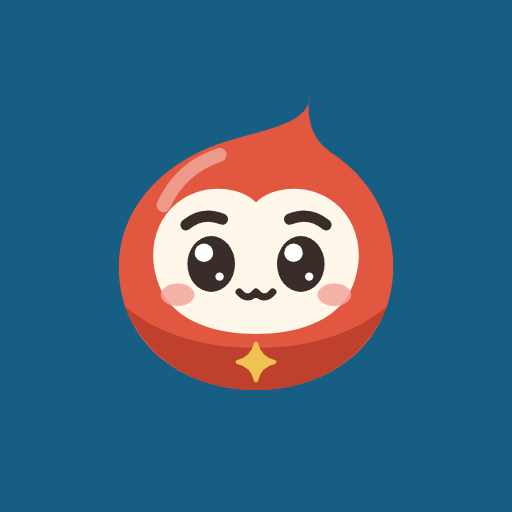
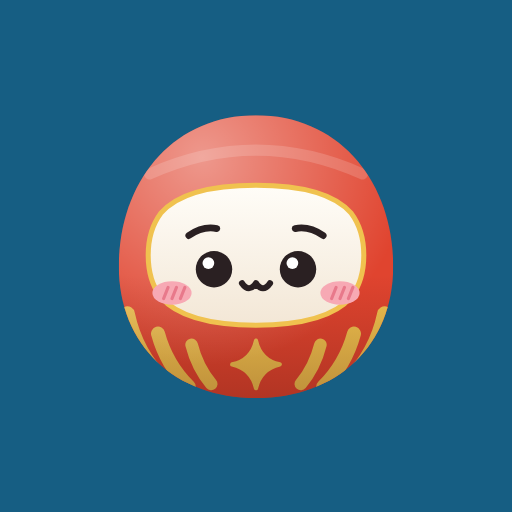
루마 리디자인: 다루마 무늬와 눈 뜨기 (#5)
- 루마의 몸통을 둥근 달마 모양으로 바꾸고 금색 줄무늬, 금테 흰 얼굴, 배의 금색 반짝임 추가
- 얼굴을 검은 점 눈, 작은 눈썹, ω 모양 입, 빗금 볼 홍조의 낙서풍 표정으로 변경
- 진행 표시를 색 채우기에서 눈을 뜨는 방식으로 변경 (학습 전: 자는 모습, 시작: 한쪽 눈, 완료: 두 눈)
- 온보딩·홈·학습 완료 문구와 README 수정, 앱 아이콘 재생성

Changed region(s): [[0.2188, 0.1875, 0.7812, 0.7812], [0.75, 0.4062, 0.7812, 0.4688]]

diff --git a/src/components/Ruma.tsx b/src/components/Ruma.tsx
@@ -1,48 +1,39 @@
 import { useId } from 'react'
 
 /**
- * 루마 (Ruma), the mascot: a drop-shaped daruma with a curled tip and a gold spark on its belly.
- * It starts the day uncoloured and fills with red, like liquid rising, as today's study gets done.
- * `fill` is today's progress from 0 to 1. Before the day's study starts it is asleep (`mood="sleep"`).
+ * 루마 (Ruma), the mascot: a round red daruma with gold stripes, a white face and a small, soft doodle face.
+ * Like a daruma getting its eyes, it is asleep before the day's study starts (`mood="sleep"`),
+ * opens one eye once it starts and the other when the day's cards are done.
+ * `progress` runs from 0 to 1.
  */
-const INK = '#3a2c28'
+const INK = '#2a2022'
 const GOLD = '#f0c24f'
-const BODY =
-  'M79 4C80 14 67 16 50 21 27 28 11 45 11 66c0 26 21 44 49 44s49-18 49-44c0-17-8-31-21-40-8-5-10-12-9-22Z'
-const FACE = 'M60 43c6-6 19-7 28 0 10 8 11 22 5 33-6 10-19 14-33 14s-27-4-33-14c-6-11-5-25 5-33 9-7 22-6 28 0Z'
-const TOP = 4
-const BOTTOM = 110
+const BODY = 'M60 9c30 0 49 24 49 54 0 28-20 47-49 47S11 91 11 63C11 33 30 9 60 9Z'
+const FACE = 'M60 34c16 0 28 3 34 10 6 8 6 22 0 30-6 7-18 10-34 10s-28-3-34-10c-6-8-6-22 0-30 6-7 18-10 34-10Z'
+const EYE_Y = 64
+const EYE_R = 6.5
 
 export function Ruma({
-  fill,
+  progress,
   mood = 'idle',
   size = 96,
 }: {
-  fill: number
+  progress: number
   mood?: 'idle' | 'cheer' | 'sleep'
   size?: number
 }) {
   const id = useId()
-  const f = Math.min(1, Math.max(0, fill))
-  // a full body pushes the surface above the tip, an empty one below the base, so no wave line shows
-  const level = f >= 1 ? TOP - 8 : f <= 0 ? BOTTOM + 8 : BOTTOM - f * (BOTTOM - TOP)
-
-  const eye = (cx: number) => {
-    if (mood === 'sleep')
-      return <path d={`M${cx - 7} 65q7 6 14 0`} fill="none" stroke={INK} strokeWidth="3.2" strokeLinecap="round" />
-    if (mood === 'cheer')
-      return <path d={`M${cx - 8} 68q8-12 16 0`} fill="none" stroke={INK} strokeWidth="4.2" strokeLinecap="round" />
-    return (
-      <>
-        <ellipse cx={cx} cy="65" rx="8.5" ry="10" fill={INK} />
-        <circle cx={cx - 2.6} cy="61" r="3.3" fill="#fff" />
-        <circle cx={cx + 3} cy="69.5" r="1.5" fill="#fff" opacity=".9" />
-      </>
+  const p = Math.min(1, Math.max(0, progress))
+  // The eye on the viewer's right opens first, as a daruma's first eye is painted; the other opens when the day is done.
+  const eye = (cx: number, open: boolean) =>
+    mood === 'sleep' || !open ? (
+      <path d={`M${cx - 5.5} ${EYE_Y}q5.5 4.5 11 0`} fill="none" stroke={INK} strokeWidth="2.6" strokeLinecap="round" />
+    ) : (
+      <g className="ruma-blink">
+        <circle cx={cx} cy={EYE_Y} r={EYE_R} fill={INK} />
+        <circle cx={cx - 2} cy={EYE_Y - 2.2} r="2.1" fill="#fff" />
+      </g>
     )
-  }
-
-  const brows =
-    mood === 'sleep' ? 'M35 55q7 2 13 0M72 55q6 2 13 0' : mood === 'cheer' ? 'M34 50q7-6 14-3M72 47q7-3 14 3' : 'M35 51q6-5 13-2M72 49q7-3 13 2'
 
   return (
     <svg className={`ruma ${mood}`} width={size} height={size} viewBox="0 0 120 120" aria-hidden="true">
@@ -50,53 +41,72 @@ export function Ruma({
         <clipPath id={`${id}b`}>
           <path d={BODY} />
         </clipPath>
+        <radialGradient id={`${id}h`} cx="34%" cy="20%" r="62%">
+          <stop offset="0" stopColor="#fff" stopOpacity=".45" />
+          <stop offset="1" stopColor="#fff" stopOpacity="0" />
+        </radialGradient>
+        <linearGradient id={`${id}d`} x1="0" y1="0" x2="0" y2="1">
+          <stop offset=".55" stopColor="#3a0d05" stopOpacity="0" />
+          <stop offset="1" stopColor="#3a0d05" stopOpacity=".34" />
+        </linearGradient>
+        <linearGradient id={`${id}v`} x1="0" y1="0" x2="0" y2="1">
+          <stop offset="0" stopColor="#fffdf8" />
+          <stop offset="1" stopColor="#f3e7d6" />
+        </linearGradient>
+        <filter id={`${id}f`} x="-30%" y="-100%" width="160%" height="300%">
+          <feGaussianBlur stdDeviation="2.4" />
+        </filter>
       </defs>
-      <ellipse cx="60" cy="113" rx="32" ry="4.5" fill="#000" opacity=".1" />
+      <ellipse cx="60" cy="113" rx="30" ry="4" fill="#000" opacity=".22" filter={`url(#${id}f)`} />
       <g className="ruma-body">
-        <path d={BODY} className="ruma-empty" />
         <g clipPath={`url(#${id}b)`}>
-          <g className="ruma-liquid" style={{ transform: `translateY(${level}px)` }}>
-            {/* two wave layers drifting sideways; everything below them is solid colour */}
-            <path className="wave back" d="M-60 0q15-7 30 0t30 0 30 0 30 0 30 0 30 0 30 0 30 0V130H-60Z" fill="#f08e76" />
-            <path className="wave" d="M-60 3q15 7 30 0t30 0 30 0 30 0 30 0 30 0 30 0 30 0V130H-60Z" fill="#e2573f" />
-            <g style={{ transform: `translateY(${-level}px)` }}>
-              <path d="M6 74c7 24 27 38 54 38s47-14 54-38c-12 14-31 21-54 21S18 88 6 74Z" fill="#bf412d" style={{ clipPath: `inset(${Math.max(0, level + 6 - 74)}px 0 0 0)` }} />
-            </g>
+          <rect width="120" height="120" fill="#e0442f" />
+          {/* gold stripes fanning up each side of the belly */}
+          <g fill="none" stroke={GOLD} strokeLinecap="round">
+            <path d="M14 80q3 14 13 24M106 80q-3 14-13 24" strokeWidth="5.5" />
+            <path d="M25 87q3 11 11 19M95 87q-3 11-11 19" strokeWidth="5" />
+            <path d="M37 91q2 8 7 14M83 91q-2 8-7 14" strokeWidth="4.5" />
           </g>
+          {/* belly mark */}
+          <path d="M60 89.500q1.6 7 8.5 8.5-6.9 1.6-8.5 8.5-1.6-6.9-8.5-8.5 6.9-1.5 8.5-8.500Z" fill={GOLD} stroke={GOLD} strokeWidth="1.5" strokeLinejoin="round" />
+          {/* band around the crown */}
+          <path d="M22 30q38-17 76 0" fill="none" stroke="#fff" strokeOpacity=".16" strokeWidth="4" strokeLinecap="round" />
+          <rect width="120" height="120" fill={`url(#${id}d)`} />
+          <rect width="120" height="120" fill={`url(#${id}h)`} />
         </g>
         <path d={BODY} className="ruma-outline" />
-        <path d="M27 44c4-9 11-15 20-18" fill="none" stroke="#fff" strokeWidth="5" strokeLinecap="round" opacity=".4" />
-        <path d={FACE} fill="#fff7ea" />
-        <path d={brows} fill="none" stroke={INK} strokeWidth="4" strokeLinecap="round" />
-        {eye(44)}
-        {eye(76)}
-        <ellipse cx="32" cy="76" rx="6" ry="4" fill="#f4a59a" opacity=".85" />
-        <ellipse cx="88" cy="76" rx="6" ry="4" fill="#f4a59a" opacity=".85" />
-        {mood === 'cheer' ? (
-          <>
-            <path d="M53 73q7 12 14 0Z" fill={INK} stroke={INK} strokeWidth="2" strokeLinejoin="round" />
-            <path d="M56.5 78.5q3.5-3 7 0-3.5 3.5-7 0Z" fill="#f0907f" />
-          </>
-        ) : mood === 'sleep' ? (
-          <ellipse cx="60" cy="76" rx="2.6" ry="3" fill={INK} />
-        ) : (
-          <path d="M54 75q3 3.5 6 0q3 3.5 6 0" fill="none" stroke={INK} strokeWidth="2.6" strokeLinecap="round" strokeLinejoin="round" />
-        )}
-        {/* belly spark */}
-        <path d="M60 93.5q1.2 5.3 6.5 6.5-5.3 1.2-6.5 6.5-1.2-5.3-6.5-6.5 5.3-1.2 6.5-6.5Z" fill={GOLD} stroke={GOLD} strokeWidth="1.5" strokeLinejoin="round" />
+        <path d={FACE} fill={`url(#${id}v)`} stroke={GOLD} strokeWidth="1.8" />
+        {/* blush, hatched like a pencil doodle */}
+        <ellipse cx="30" cy="72.5" rx="7" ry="4.2" fill="#f7a9b4" />
+        <ellipse cx="90" cy="72.5" rx="7" ry="4.2" fill="#f7a9b4" />
+        <path d="M27 74.500l1.6-4M30 74.500l1.6-4M33 74.500l1.6-4M87 74.500l1.6-4M90 74.500l1.6-4M93 74.500l1.6-4" fill="none" stroke="#e8798b" strokeWidth="1.1" strokeLinecap="round" />
+        {/* small brows and mouth */}
+        <g className="ruma-marks" fill="none" stroke={INK} strokeLinecap="round" strokeLinejoin="round">
+          <path d="M36 52q5-3.5 10-2.5" strokeWidth="2.4" />
+          <path d="M84 52q-5-3.5-10-2.5" strokeWidth="2.4" />
+          {mood === 'cheer' ? (
+            <path d="M55 69q5 8 10 0Z" fill="#e8798b" strokeWidth="2.2" />
+          ) : mood === 'sleep' ? (
+            <circle cx="60" cy="71" r="1.6" fill={INK} stroke="none" />
+          ) : (
+            <path d="M55 69q2.5 3.6 5 0q2.5 3.6 5 0" strokeWidth="2.2" />
+          )}
+        </g>
+        {eye(45, p >= 1)}
+        {eye(75, p > 0)}
       </g>
       {mood === 'sleep' && (
         <g className="ruma-zzz" fill="none" strokeWidth="2.6" strokeLinecap="round" strokeLinejoin="round">
-          <path d="M99 32h8l-8 9h8" />
-          <path d="M109 18h6l-6 7h6" />
-          <path d="M116 7h4.5l-4.5 5h4.5" />
+          <path d="M92 26h8l-8 9h8" />
+          <path d="M103 12h6l-6 7h6" />
+          <path d="M111 2h4.500l-4.5 5h4.5" />
         </g>
       )}
       {mood === 'cheer' && (
         <g className="ruma-sparks" fill={GOLD}>
           <path d="M10 22l2 5 5 2-5 2-2 5-2-5-5-2 5-2Z" />
-          <path d="M106 12l1.5 4 4 1.5-4 1.5-1.5 4-1.5-4-4-1.5 4-1.5Z" />
-          <path d="M113 42l1.2 3 3 1.2-3 1.2-1.2 3-1.2-3-3-1.2 3-1.2Z" />
+          <path d="M106 12l1.5 4 4 1.5-4 1.5-1.5 4-1.5-4-4-1.5 4-1.500Z" />
+          <path d="M113 42l1.2 3 3 1.2-3 1.2-1.2 3-1.2-3-3-1.2 3-1.200Z" />
         </g>
       )}
     </svg>

diff --git a/src/screens/Home.tsx b/src/screens/Home.tsx
@@ -140,15 +140,15 @@ export function Home() {
   else if (needPerDay == null) pace = '시험일이 지났어요. 설정에서 다음 시험일을 골라 주세요.'
   else pace = `시험 전에 전부 만나려면 하루 새 단어 ${needPerDay}개`
 
-  // share of today's cards already answered; the mascot fills with colour to match
+  // share of today's cards already answered; shown in the mascot's speech bubble
   const progress = cleared ? 1 : started ? (todayLog?.c ?? 0) / ((todayLog?.c ?? 0) + todo) : 0
   const pct = Math.round(progress * 100)
   const bubble = cleared
-    ? '가득 찼다! 오늘 목표 달성이에요.'
+    ? '두 눈 번쩍! 오늘 목표 달성이에요.'
     : started
-      ? `${pct}% 채워졌어요. ${todo}장만 더 하면 가득!`
+      ? `${pct}% 왔어요. ${todo}장만 더 하면 남은 눈도 떠요!`
       : todo > 0
-        ? `쿨쿨… 오늘은 ${todo}장! 시작하면 깨어나서 색이 차올라요.`
+        ? `쿨쿨… 오늘은 ${todo}장! 시작하면 한쪽 눈을 떠요.`
         : '오늘은 돌아온 복습이 없어요. 새 단어를 더 해 볼까요?'
 
   return (
@@ -157,7 +157,7 @@ export function Home() {
 
       <section className="hero">
         <div className="hero-top">
-          <Ruma fill={todo === 0 && !started ? 1 : progress} mood={cleared ? 'cheer' : !started && todo > 0 ? 'sleep' : 'idle'} size={104} />
+          <Ruma progress={todo === 0 && !started ? 1 : progress} mood={cleared ? 'cheer' : !started && todo > 0 ? 'sleep' : 'idle'} size={104} />
           <p className="bubble">{bubble}</p>
         </div>
         {todo > 0 ? (

diff --git a/src/styles.css b/src/styles.css
@@ -452,13 +452,10 @@ button:disabled { cursor: default; opacity: 0.4; }
 .ruma-sparks path:nth-child(3) { animation-delay: 0.8s; }
 @keyframes twinkle { 50% { transform: scale(0.4); opacity: 0.4; } }
 
-/* mascot colour fill */
-.ruma-empty { fill: var(--surface); }
-.ruma-outline { fill: none; stroke: color-mix(in srgb, #e2573f 55%, var(--line)); stroke-width: 2.5; }
-.ruma-liquid { transition: transform 0.9s cubic-bezier(0.3, 1.2, 0.5, 1); }
-.ruma-liquid .wave { animation: wave 2.4s linear infinite; }
-.ruma-liquid .wave.back { animation-duration: 3.6s; animation-direction: reverse; }
-@keyframes wave { to { transform: translateX(60px); } }
+/* mascot */
+.ruma-outline { fill: none; stroke: #7a3a2c; stroke-opacity: 0.28; stroke-width: 1.5; }
+.ruma-blink { transform-box: fill-box; transform-origin: center; animation: blink 4.6s ease-in-out infinite; }
+@keyframes blink { 0%, 44%, 50%, 100% { transform: scaleY(1); } 47% { transform: scaleY(0.12); } }
 
 /* asleep until the day's study starts */
 .ruma.sleep .ruma-body { animation: breathe 3.6s ease-in-out infinite; }

diff --git a/src/screens/Onboarding.tsx b/src/screens/Onboarding.tsx
@@ -12,7 +12,7 @@ export function Onboarding() {
 
   return (
     <div className="onboard">
-      <Ruma fill={1} size={120} />
+      <Ruma progress={1} size={120} />
       <p className="eyebrow">JLPT 루마</p>
       <h1>잊기 전에 한 겹 더, JLPT 단어</h1>
       <ol className="how">
@@ -25,8 +25,8 @@ export function Onboarding() {
           <span>기억할수록 며칠 → 몇 주 → 몇 달로 간격이 벌어져요. 모르면 금방 돌아와요.</span>
         </li>
         <li>
-          <b>공부할수록 루마가 차올라요</b>
-          <span>카드를 넘길수록 루마에 색이 차오르고, 오늘 분량을 끝내면 가득 차요. XP와 연속 학습도 쌓여요.</span>
+          <b>공부하면 루마가 눈을 떠요</b>
+          <span>학습을 시작하면 한쪽 눈을, 오늘 분량을 끝내면 두 눈을 다 떠요. XP와 연속 학습도 쌓여요.</span>
         </li>
       </ol>
 

diff --git a/src/screens/Study.tsx b/src/screens/Study.tsx
@@ -89,11 +89,11 @@ export function Study() {
             ))}
           </div>
         )}
-        <Ruma fill={cleared ? 1 : (log?.c ?? 0) / ((log?.c ?? 0) + q.waiting)} mood={cleared ? 'cheer' : 'idle'} size={150} />
+        <Ruma progress={cleared ? 1 : (log?.c ?? 0) / ((log?.c ?? 0) + q.waiting)} mood={cleared ? 'cheer' : 'idle'} size={150} />
         <h1>{cleared ? '오늘 목표 달성!' : '잠깐 쉬어 가요'}</h1>
         <p className="muted">
           {cleared
-            ? '루마가 가득 찼어요. 기억이 흐려질 때쯤 다시 가져올게요.'
+            ? '루마가 두 눈을 다 떴어요. 기억이 흐려질 때쯤 다시 가져올게요.'
             : `외우는 중인 ${q.waiting}개는 조금 뒤에 다시 나와요.`}
         </p>
         <div className="result-tiles">

diff --git a/README.md b/README.md
@@ -14,7 +14,7 @@ Anki가 쓰는 오픈소스 스케줄러 [FSRS](https://github.com/open-spaced-r
 
 ## 기능
 
-- 게임 요소: 카드마다 XP(답과 무관하게 10), 레벨, 연속 학습, 일일 퀘스트 3개, 50단어마다 도장이 찍히는 급수 여정, 마스코트 루마(다루마에서 온 물방울 모양 캐릭터. 오늘 분량을 넘길수록 색이 액체처럼 차오르고, 끝내면 가득 참)
+- 게임 요소: 카드마다 XP(답과 무관하게 10), 레벨, 연속 학습, 일일 퀘스트 3개, 50단어마다 도장이 찍히는 급수 여정, 마스코트 루마(금색 줄무늬의 둥근 다루마로, 흰 얼굴에 작은 눈과 볼 홍조가 있는 낙서풍 표정을 가짐. 다루마에 눈을 그려 넣듯, 학습을 시작하면 한쪽 눈을, 오늘 분량을 끝내면 두 눈을 다 뜸)
 - 목표 대시보드: 오늘 할 카드, 시험일 D-day, 시험 전에 필요한 하루 새 단어 수, 연속 학습, 장기 기억 단어 수, 기억 유지율, 7일 복습 예보, 학습 기록
 - 학습 세션: 방금 선택 되돌리기, 발음 듣기, 북마크, 키보드(← 모름 · → 앎 · ↑ 쉬움 · Space 뒤집기)
 - 급수별 화면: 기억 상태별 단어 수와 단어 목록
